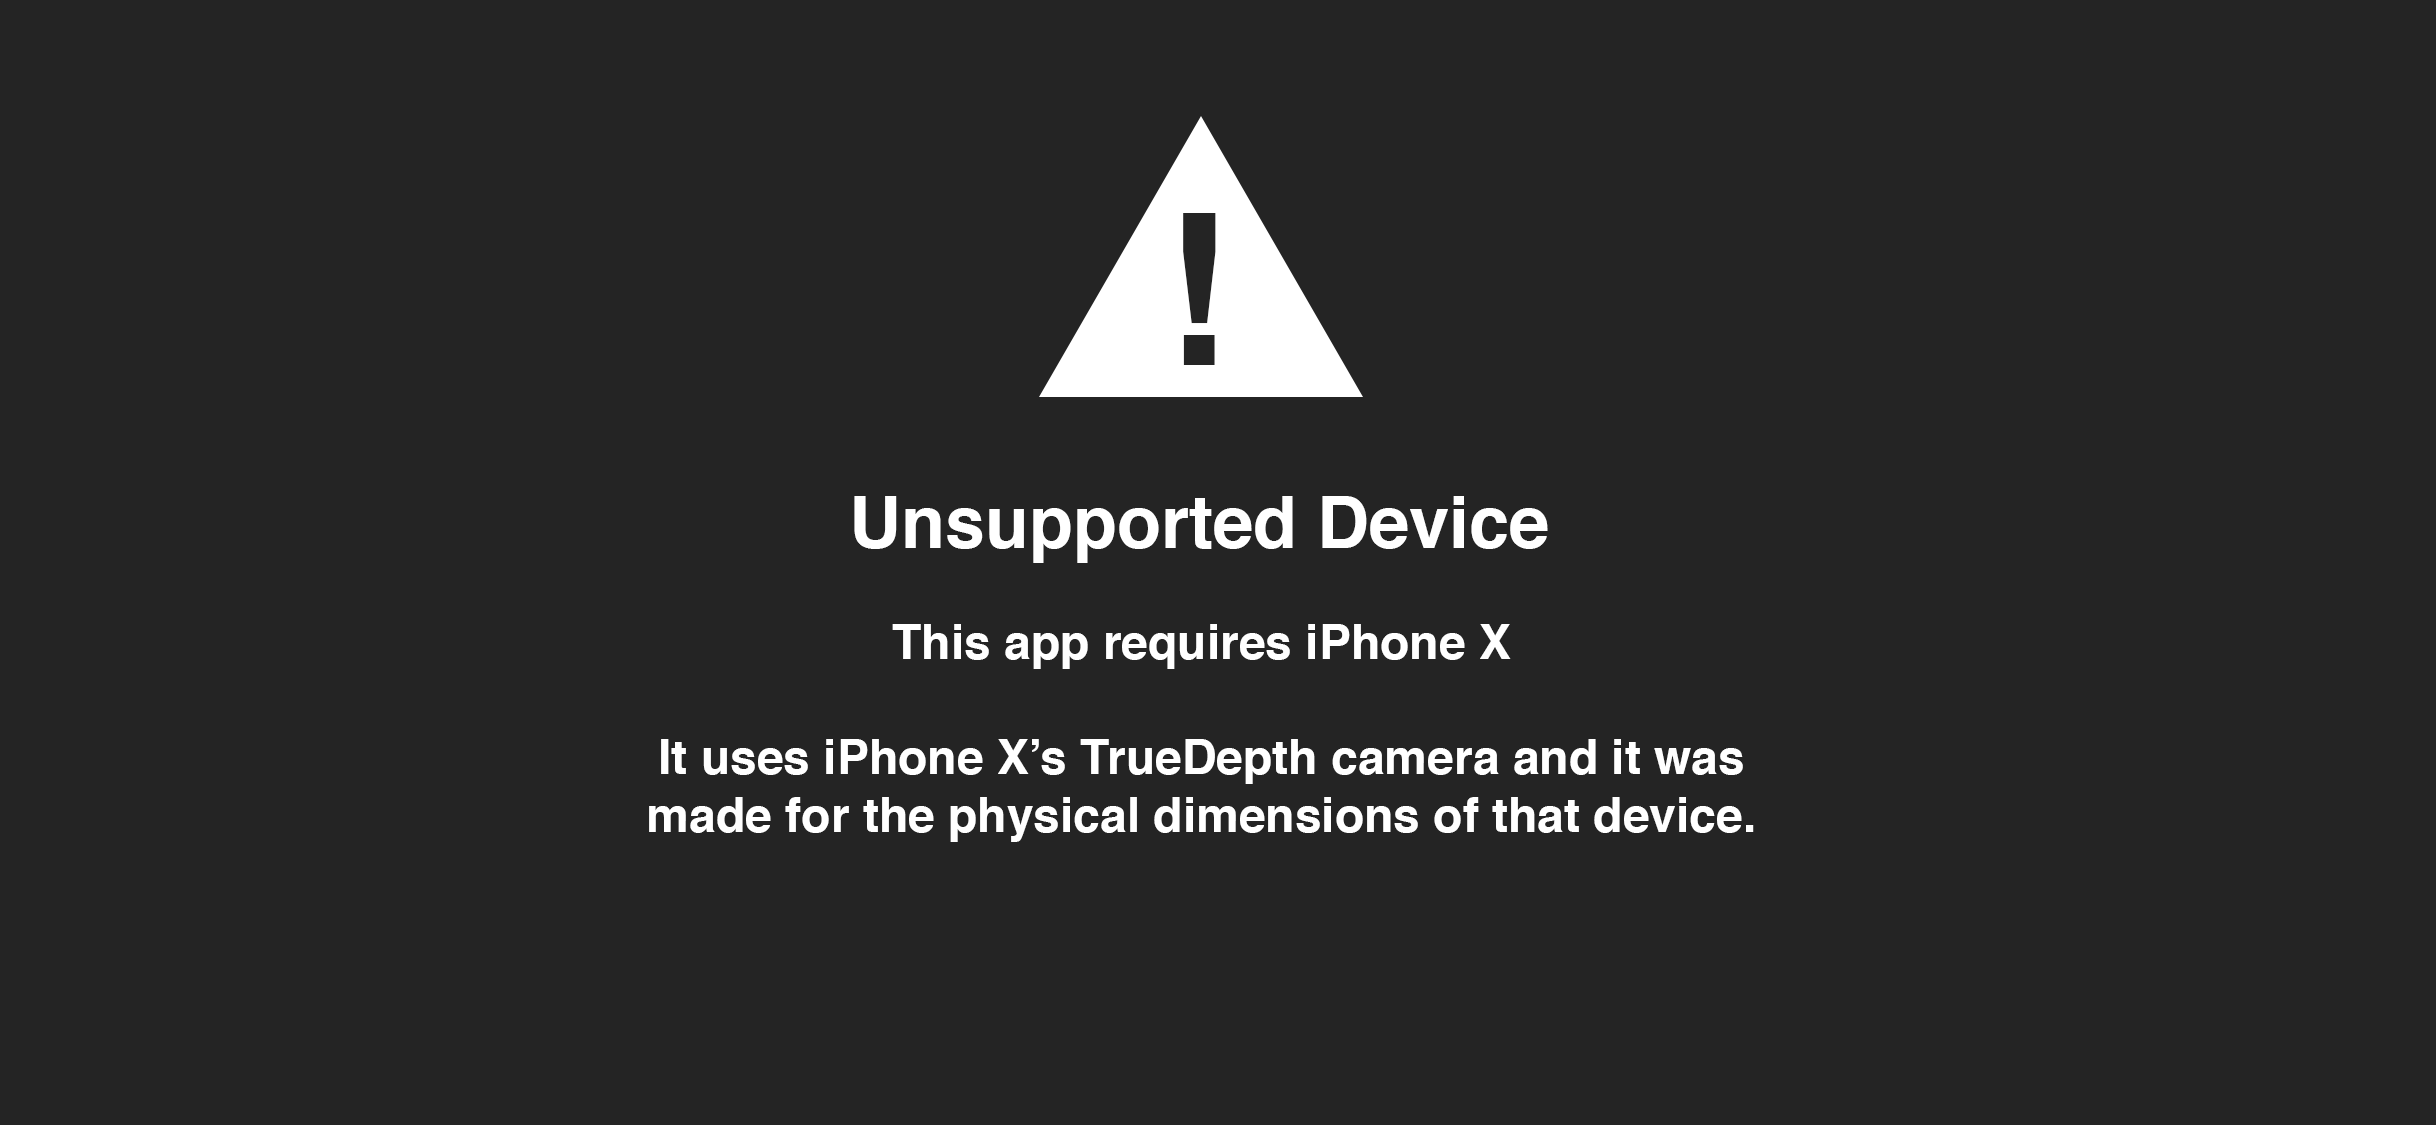
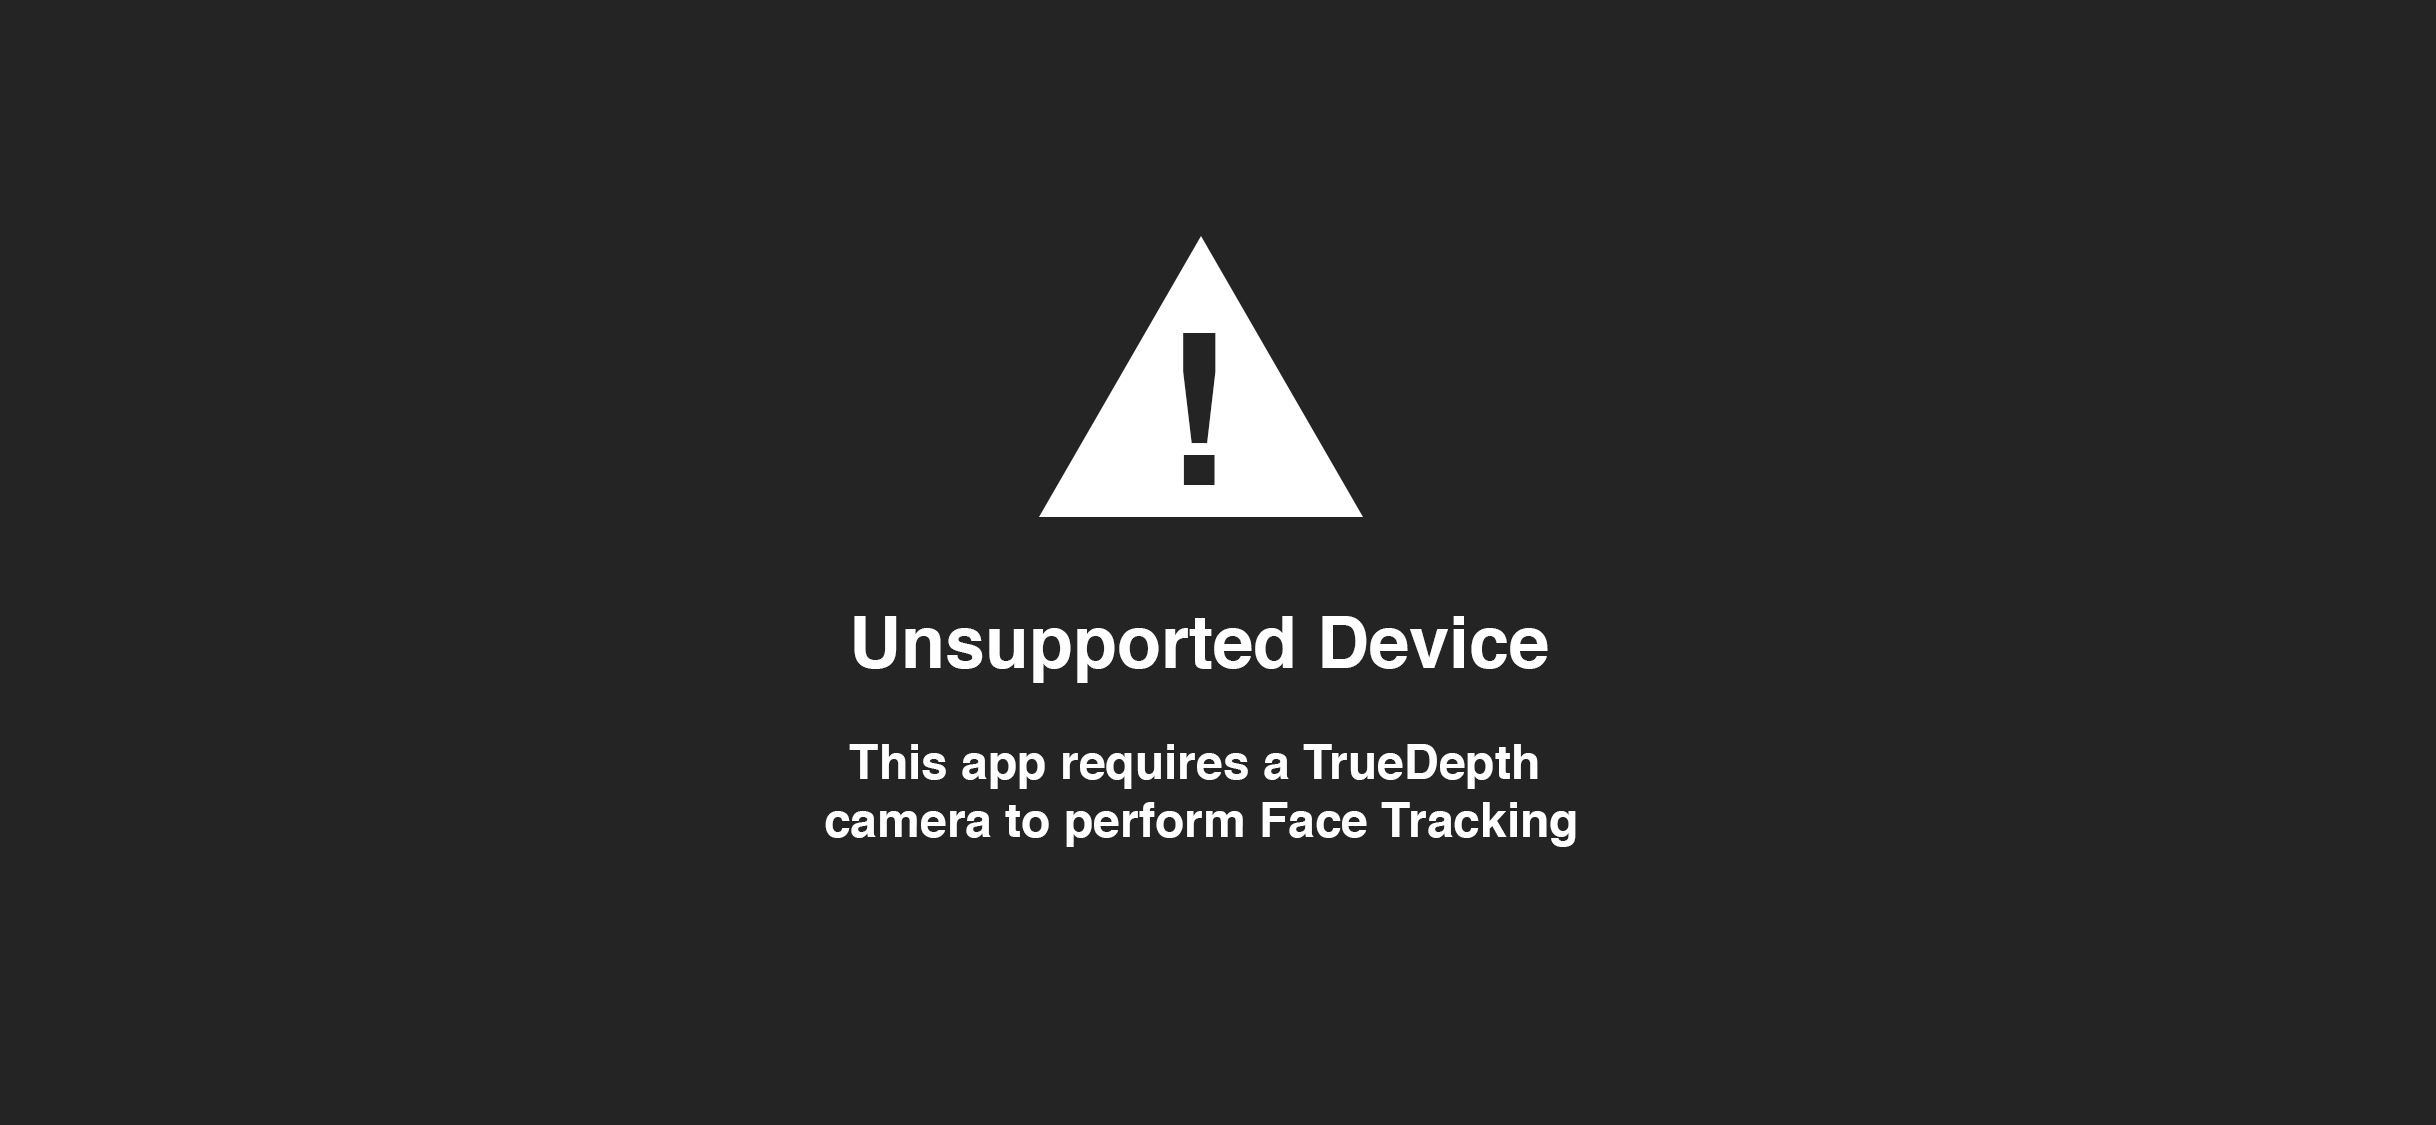
added support for all TrueDepth iPhones

Changed region(s): [[0.3432, 0.0933, 0.6552, 0.4978], [0.2496, 0.6533, 0.7176, 0.7467], [0.3432, 0.5289, 0.6552, 0.6222]]

diff --git a/Assets/Scripts/OffAxisProjection.cs b/Assets/Scripts/OffAxisProjection.cs
@@ -1,6 +1,7 @@
 using System.Collections;
 using System.Collections.Generic;
 using UnityEngine;
+using UnityEngine.UI;
 
 // this script is for setting up the non-symmetric camera frustom and compute the off-axis projection matrix used for the eye camera
 
@@ -32,21 +33,22 @@ public class OffAxisProjection : MonoBehaviour
 		Vector3 close = device_plane.ClosestPointOnPlane (Vector3.zero);
 		near = close.magnitude;
 
-		// couldn't get device orientation to work properly in all cases, so just landscape for now (it's just the UI that is locked to landscape, everyting else works just fine)
-		/*if (Screen.orientation == ScreenOrientation.Portrait) { 
+        // couldn't get device orientation to work properly in all cases, so just landscape for now (it's just the UI that is locked to landscape, everyting else works just fine)
+        /*if (Screen.orientation == ScreenOrientation.Portrait) { 
 			left = trackedCamPos.x - 0.040f; // portrait iphone X
 			right = trackedCamPos.x + 0.022f;
 			top = trackedCamPos.y + 0.000f;
 			bottom = trackedCamPos.y - 0.135f;
 		} else {*/
 
-		// landscape iPhone X, measures in meters
-		left = deviceCamPos.x - 0.000f;
+        // landscape iPhone X, measures in meters
+
+        left = deviceCamPos.x - 0.000f;
 		right = deviceCamPos.x + 0.135f;
 		top = deviceCamPos.y + 0.022f;
 		bottom = deviceCamPos.y - 0.040f;
 
-		far = 10f; // may need bigger for bigger scenes, max 10 metres for now
+        far = 10f; // may need bigger for bigger scenes, max 10 metres for now
 
 		Vector3 topLeft = new Vector3 (left, top, near);
 		Vector3 topRight = new Vector3 (right, top, near);

diff --git a/Assets/Scripts/UIManager.cs b/Assets/Scripts/UIManager.cs
@@ -133,6 +133,7 @@ public class UIManager : MonoBehaviour {
 	// Use this for initialization
 	void Start () {
 
+        /*
         bool deviceIsIphoneX = (UnityEngine.iOS.Device.generation == UnityEngine.iOS.DeviceGeneration.iPhoneX  ||
                                 UnityEngine.iOS.Device.generation == UnityEngine.iOS.DeviceGeneration.iPhoneXS ||
                                 UnityEngine.iOS.Device.generation == UnityEngine.iOS.DeviceGeneration.iPhoneXR   ); 
@@ -140,7 +141,7 @@ public class UIManager : MonoBehaviour {
 
         if (!deviceIsIphoneX) {
 			RequireIPhoneXPanel.SetActive (true);
-		}
+		}*/
 
 		// ugly but I don't wanna figure out how to dynamically create UI buttons right now TODO
 		Button[] SceneButtons = new Button[5];

diff --git a/Assets/Scripts/HeadTrackManager.cs b/Assets/Scripts/HeadTrackManager.cs
@@ -30,8 +30,9 @@ public class HeadTrackManager : MonoBehaviour {
 	public float EyeHeight = 32f; // eye height from head anchor (mm)
 
 	public string ARError;
+    public GameObject RequireIPhoneXPanel;
 
-	public void SetIPD( float value ) {
+    public void SetIPD( float value ) {
 		IPD = value;
 	}
 		
@@ -70,7 +71,8 @@ public class HeadTrackManager : MonoBehaviour {
 			//UnityARSessionNativeInterface.ARFrameUpdatedEvent += FrameUpdate; //can't get the light direction estimate to work for some reason, it freezes the app
 		} else {
 			Debug.Log ("ARKitFaceTrackingConfiguration not supported");
-		}
+            RequireIPhoneXPanel.SetActive(true);
+        }
 
 	}
 
